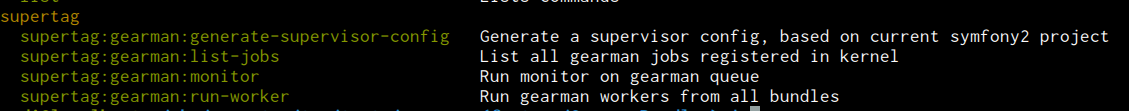
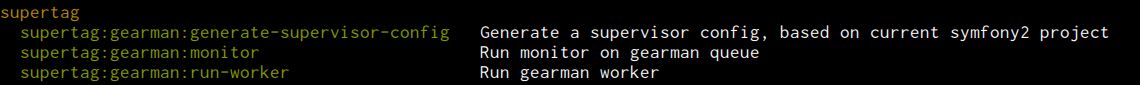
update readme and screenshots

diff --git a/Command/RunWorkerCommand.php b/Command/RunWorkerCommand.php
@@ -57,11 +57,10 @@ class RunWorkerCommand extends ContainerAwareCommand
     {
         $this
             ->setName(self::NAME)
-            ->setDescription('Run gearman workers from all bundles')
+            ->setDescription('Run gearman worker')
             ->setHelp(<<<EOF
-The <info>%command.name%</info> command registers all gearman workers for all
-kernel bundles based on their directory. Example a worker location is detected like:
-<comment>MyVendorName/BundleName/Worker/*.php</comment>
+The <info>%command.name%</info> command looks for gearman job commands from all
+kernel bundles and registers them as gearman jobs.
 
 <info>php %command.full_name%</info>
 <info>php %command.full_name% --env=prod</info>

diff --git a/README.md b/README.md
@@ -11,7 +11,8 @@ Symfony2 bundle to manage and monitor PHP gearman jobs and queue.
 projects deployed using gearman queue. It also simplifies a deployment process.
 - Can generate you a supervisor daemon conf to ensure your worker gets respawned in case of fatal error in php.
 - Has a gearman queue monitor
-- Maps jobs based on Worker directory in any bundle and reads annotions for job details.
+- Since php is not good with long running processes, we run jobs as console commands. It can be run manually too if
+gearman is dropped.
 
 ## Installation
 
@@ -63,51 +64,58 @@ Should contain:
 ## Usage
 
 Assuming you have **gearman** service running.
-In any of your bundles you can add workers with job definitions:
+In any of your bundles you can add standard symfony2 console commands, which also implements a **GearmanJobCommandInterface**.
 
 ``` php
 <?php
 
-namespace Supertag\Bundle\ContactBundle\Worker;
+namespace Supertag\Bundle\ContactBundle\Command;
 
-use Symfony\Component\DependencyInjection\ContainerAware;
+use Symfony\Bundle\FrameworkBundle\Command\ContainerAwareCommand;
 use Symfony\Component\Console\Output\OutputInterface;
-use GearmanJob;
+use Supertag\Bundle\GearmanBundle\Command\GearmanJobCommandInterface;
 
-use Supertag\Bundle\GearmanBundle\Annotation as Gearman;
-
-class MailingWorker extends ContainerAware
+class SendMessageCommand extends ContainerAwareCommand implements GearmanJobCommandInterface
 {
+    const NAME = 'job:send-message';
+
     /**
-     * @Gearman\Job(
-     *   name="supertag.mailing.send_contact_email",
-     *   retries=5,
-     *   description="Sends a contact email message"
-     * )
+     * {@inheritDoc}
      */
-    public function sendContactEmail(GearmanJob $job, OutputInterface $output)
+    public function getNumRetries()
     {
-        $data = json_decode($job->workload()); // assume job data is json encoded, can be serialized or be a simple string
-        $output->writeLn("Attempt to send a contact message from <comment>{$data['sender_email']}</comment>");
-        $message = \Swift_Message::newInstance()
-            ->setSubject('A message from contact form')
-            ->setFrom($data['sender_email'])
-            ->setTo('info@supert.ag')
-            ->setBody(
-                $this->renderView(
-                    'SupertagContactBundle:Email:contact.txt.twig',
-                    array('body' => $data['body'])
-                )
-            )
-        ;
-        // any exception thrown will cause a retry
-        $this->container->get('mailer')->send($message);
-        $output->writeLn("A contact message was successfuly sent from <comment>{$data['sender_email']}</comment>");
+        return 5;
+    }
+
+    /**
+     * {@inheritDoc}
+     */
+    protected function configure()
+    {
+        $this
+            ->setName(self::NAME)
+            ->setDescription('Sends a contact message')
+            ->addArgument('from', InputArgument::REQUIRED, 'From user id')
+            ->addArgument('template', InputArgument::REQUIRED, 'Email template')
+            ->addOption('email-sender', null, InputOption::VALUE_NONE, 'Sends the same email to sender too')
+            ->setHelp(<<<EOF
+The <info>%command.name%</info> sends an email message
+
+<info>php %command.full_name% 5 contact_email --email-sender</info>
+EOF
+        );
+    }
+
+    /**
+     * {@inheritDoc}
+     */
+    protected function execute(InputInterface $input, OutputInterface $output)
+    {
+        //... load the user and send a message based on input arguments
+        $output->writeLn("A contact message was successfuly sent");
     }
 }
 ```
-
-**NOTE:** worker class is inside **Worker** directory.
 
 We have defined a simple contact message email sending job. Now we can schedule it anywhere, example:
 
@@ -117,30 +125,33 @@ We have defined a simple contact message email sending job. Now we can schedule 
 namespace Supertag\Bundle\ContactBundle\Controller;
 
 use Symfony\Bundle\FrameworkBundle\Controller\Controller;
+use Supertag\Bundle\GearmanBundle\Workload;
 
 class ContactController extends Controller
 {
     public function contactAction()
     {
         // assuming some actions are performed to get sender data
-        $data = array(
-            "sender_email" => "sender@example.com",
-            "body" => "Hello there !",
-        );
+        // create a workload for the job. Which is a list of parameters for the job command
+        $workload = new Workload(array(5, "contact_email", "--email-sender" => null));
         // schedule a low priority background job
-        $this->get("supertag_gearman.client")->doLowBackground("supertag.mailing.send_contact_email", json_encode($data));
-        // the action will finish without any blocking
+        $this->get("supertag_gearman.client")->doLowBackground("job:send-message", $workload);
+        // the action will finish without blocking
     }
 }
 ```
 
+**NOTE:** Workload takes all parameters for the job command. In case if job required parameters are missing or they are
+misspeled a job will note you about it. Any exceptions or php errors will trigger job to fail, proceed a retry.
+
+In order to manage jobs which has failed all retries, see Events below.
+
 ### Events
 
-Bundle fires few important events where you would like to hook in.
+Bundle fires few important events where you would like to hook in some cases.
 
-- **JobBeginEvent** - before job execution, since php is not good at long running scripts. You might want to reopen your
-database connection and clear some statically shared cache..
-- **JobFailedEvent** - triggers when job failed all retries, you might want to persist it into database for further
+- **JobBeginEvent** - fires before job execution.
+- **JobFailedEvent** - triggers when job fails all retries, you might want to persist it into database for further
 investigations or delayed rescheduling.
 - **JobEndEvent** - triggers when job finished execution within a single try.
 
@@ -156,13 +167,7 @@ services:
 
 ### Commands
 
-To check all registered jobs:
-
-    php app/console supertag:gearman:list-jobs
-
-You should see your jobs listed similar to this:
-
-![Screenshot of listed gearman jobs](https://raw.github.com/supertag/GearmanBundle/master/Resources/screenshots/job_list.png)
+To check all registered jobs you can use a standard console command tool.
 
 To start gearman worker, run:
 
@@ -186,6 +191,26 @@ You can monitor a gearman queue:
 If you wish to have a script which would ping you in case if queue gets overloaded, you could implement it based on that
 command to poll status of gearman queue and check if jobs are piling up. The solution to this hardly can be abstracted,
 it would be best to customize it individually.
+
+### Workers
+
+To run one or more php worker processes, would recommend to use [supervisord](https://pypi.python.org/pypi/supervisor).
+It will help to manage all workers - respawn ones which dies for unexpected reasons.
+
+If easy_install is available, just run as root. Otherwise see the installation guide.
+
+    easy_install supervisor
+
+Generate a configuration files for **2** workers which will run as user **www-data**:
+
+    php app/console supertag:gearman:generate-supervisor-config www-data -e prod --num-workers=2
+
+You can now start the supervised workers:
+
+    supervisord -c worker-supervisor.conf
+
+It will put logs in **app/logs** directory for stderr and stdout output. Also will create a pid file in base directory
+of your symfony2 project. Using that pid, you can easily kill the running worker.
 
 ## Run Tests
 
